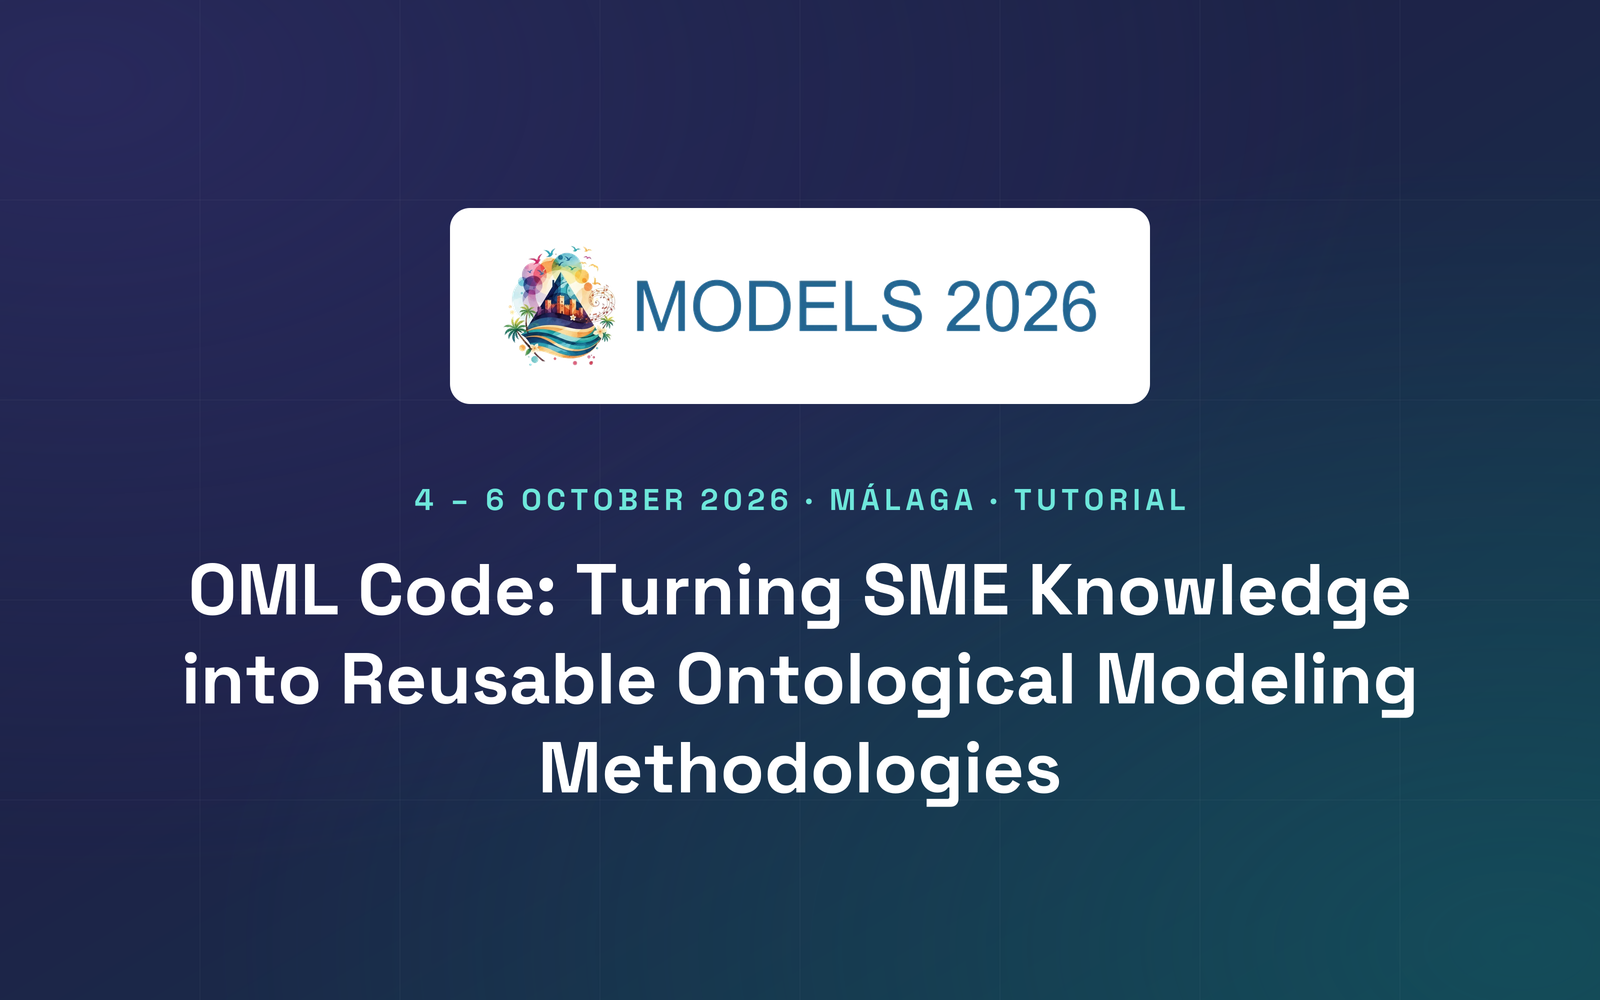
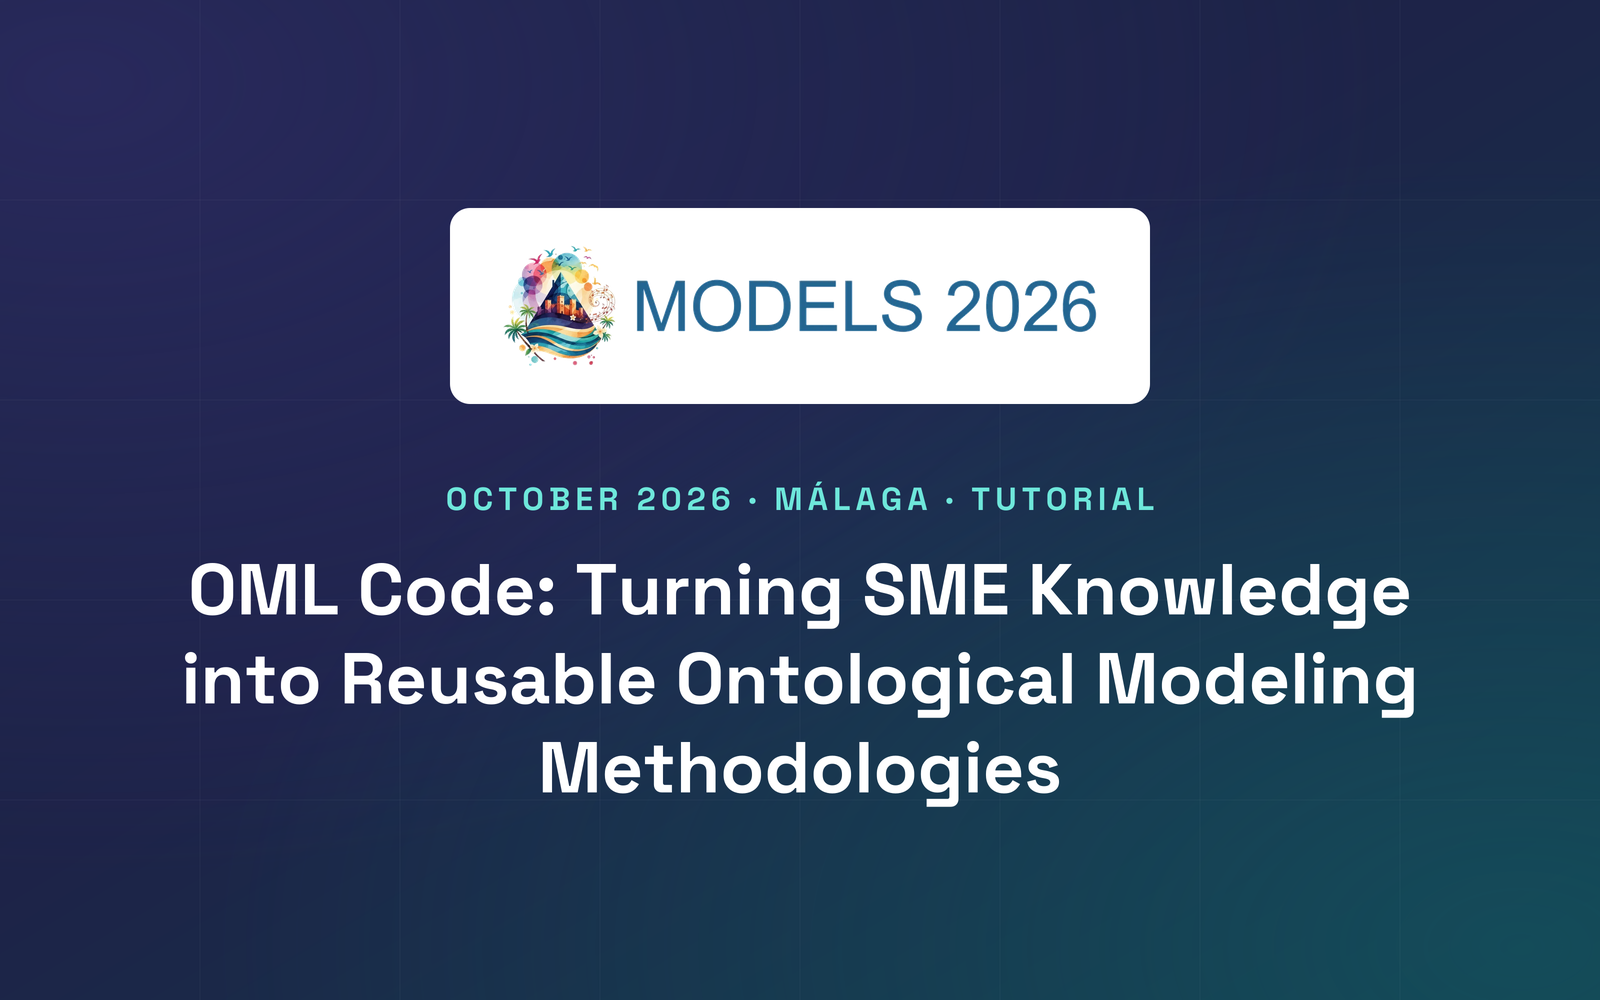
go

Changed region(s): [[0.25, 0.465, 0.75, 0.527]]

diff --git a/_news/2026-08-16-onto-nexus2026.md b/_news/2026-08-16-onto-nexus2026.md
@@ -5,7 +5,7 @@ date: 2026-08-16
 author: "Modelware"
 post_image: "/assets/images/onto-nexus2026.png"
 header_dark: true
-description: "Modelware is co-organizing the onto:Nexus Workshop 2026, the International Workshop on Ontological Modeling and Analysis, co-located with MODELS 2026 in Málaga, Spain on October 6."
+description: "Modelware is co-organizing the onto:Nexus Workshop 2026, the International Workshop on Ontological Modeling and Analysis, co-located with MODELS 2026 in Málaga, Spain."
 permalink: /news/onto-nexus2026
 ---
 
@@ -19,8 +19,8 @@ permalink: /news/onto-nexus2026
         <p class="mt-4 text-left">
           Modelware is co-organizing the
           <a href="https://opencaesar.io/events/onto-Nexus-Workshop-2026" target="_blank" rel="noopener">onto:Nexus Workshop 2026</a>,
-          formally the International Workshop on Ontological Modeling and Analysis, taking place on Tuesday, October 6,
-          2026 in Málaga, Spain, co-located with
+          formally the International Workshop on Ontological Modeling and Analysis, held in Málaga, Spain,
+          co-located with
           <a href="https://conf.researchr.org/home/models-2026" target="_blank" rel="noopener">MODELS 2026</a>.
         </p>
         <p class="text-left">
@@ -40,7 +40,7 @@ permalink: /news/onto-nexus2026
           Accepted papers will be published by IEEE in the joint workshop proceedings.
         </p>
         <p class="text-left">
-          Attending MODELS 2026? <a href="/contact.html">Reach out</a> to meet with us in Málaga.
+          Attending MODELS 2026? <a href="/contact.html">Get in touch</a> to connect with our team.
         </p>
       </div>
     </div>

diff --git a/_news/2026-06-12-gpmf2026.md b/_news/2026-06-12-gpmf2026.md
@@ -20,9 +20,8 @@ permalink: /news/gpmf2026
         <p class="mt-4 text-left">
           Modelware will co-deliver a masterclass at the
           <a href="https://gpmf.world/en" target="_blank" rel="noopener">Global Project Management Forum (GPMF) 2026</a>,
-          taking place September 19 to 21, 2026 in Riyadh, Saudi Arabia. The masterclass, titled
-          <em>Concurrent Engineering Programs: How Great Teams Design Complex Systems Together</em>, opens the forum
-          on September 19.
+          taking place September 19 to 21, 2026 in Riyadh, Saudi Arabia. The masterclass is titled
+          <em>Concurrent Engineering Programs: How Great Teams Design Complex Systems Together</em>.
         </p>
         <p class="text-left">
           We will be joined by Dr. Mustafa Hafizoglu, a Project Management Institute (PMI) veteran from Turkey, and
@@ -46,7 +45,7 @@ permalink: /news/gpmf2026
           reveals about communication, integration, and decision making in real concurrent engineering programs.
         </p>
         <p class="text-left">
-          Attending GPMF 2026? <a href="/contact.html">Reach out</a> to meet with us in Riyadh.
+          Attending GPMF 2026? <a href="/contact.html">Get in touch</a> to connect with our team.
         </p>
       </div>
     </div>

diff --git a/_news/2026-06-12-gpmf2026-panel.md b/_news/2026-06-12-gpmf2026-panel.md
@@ -19,7 +19,7 @@ permalink: /news/gpmf2026-panel
         <p class="mt-4 text-left">
           Modelware will join the panel <em>Systems Engineering in Project and
           Program</em> at the <a href="https://gpmf.world/en" target="_blank" rel="noopener">Global Project Management
-          Forum (GPMF) 2026</a> in Riyadh, Saudi Arabia, on September 20, 2026.
+          Forum (GPMF) 2026</a>, taking place September 19 to 21, 2026 in Riyadh, Saudi Arabia.
         </p>
         <p class="text-left">
           The panel brings together engineering leaders from the Kingdom of Saudi Arabia and the international
@@ -34,10 +34,10 @@ permalink: /news/gpmf2026-panel
         </p>
         <p class="text-left">
           The panel follows the masterclass <a href="/news/gpmf2026">Concurrent Engineering Programs: How Great Teams
-          Design Complex Systems Together</a>, which we co-deliver on the opening day of the forum.
+          Design Complex Systems Together</a>, which we also co-deliver at the forum.
         </p>
         <p class="text-left">
-          Attending GPMF 2026? <a href="/contact.html">Reach out</a> to meet with us in Riyadh.
+          Attending GPMF 2026? <a href="/contact.html">Get in touch</a> to connect with our team.
         </p>
       </div>
     </div>

diff --git a/_news/2026-08-16-models2026-tutorial.md b/_news/2026-08-16-models2026-tutorial.md
@@ -21,7 +21,7 @@ permalink: /news/models2026-tutorial
           <em>OML Code: Turning SME Knowledge into Reusable Ontological Modeling Methodologies</em> at
           <a href="https://conf.researchr.org/track/models-2026/models-2026-tutorials#event-overview" target="_blank" rel="noopener">MODELS 2026</a>,
           the 29th International Conference on Model Driven Engineering Languages and Systems, held October 4 to 9,
-          2026 in Málaga, Spain. Tutorials run as part of the satellite events, October 4 to 6.
+          2026 in Málaga, Spain. Tutorials run as part of the conference's satellite events.
         </p>
         <p class="text-left">
           The hardest thing to scale in engineering is not tooling, it is judgment. The methodology a subject matter
@@ -37,7 +37,7 @@ permalink: /news/models2026-tutorial
           teams and projects rather than re-explained.
         </p>
         <p class="text-left">
-          Attending MODELS 2026? <a href="/contact.html">Reach out</a> to meet with us in Málaga.
+          Attending MODELS 2026? <a href="/contact.html">Get in touch</a> to connect with our team.
         </p>
       </div>
     </div>

diff --git a/_news/2026-08-16-mdei2026.md b/_news/2026-08-16-mdei2026.md
@@ -50,7 +50,7 @@ permalink: /news/mdei2026
           Accepted workshop papers are published by ACM in the joint MODELS workshop proceedings.
         </p>
         <p class="text-left">
-          Attending MODELS 2026? <a href="/contact.html">Reach out</a> to meet with us in Málaga.
+          Attending MODELS 2026? <a href="/contact.html">Get in touch</a> to connect with our team.
         </p>
       </div>
     </div>
